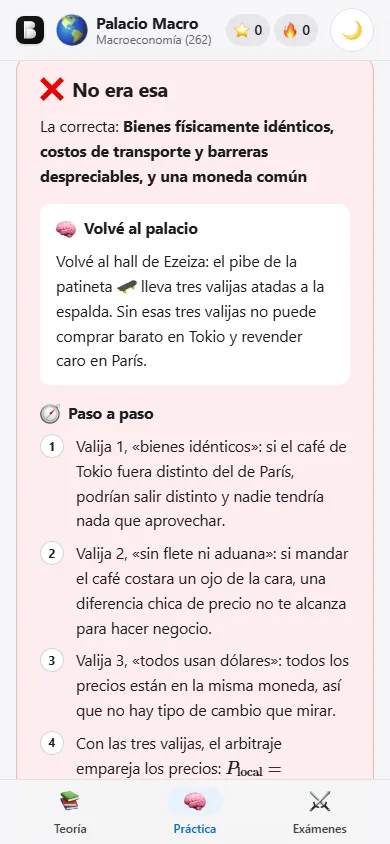
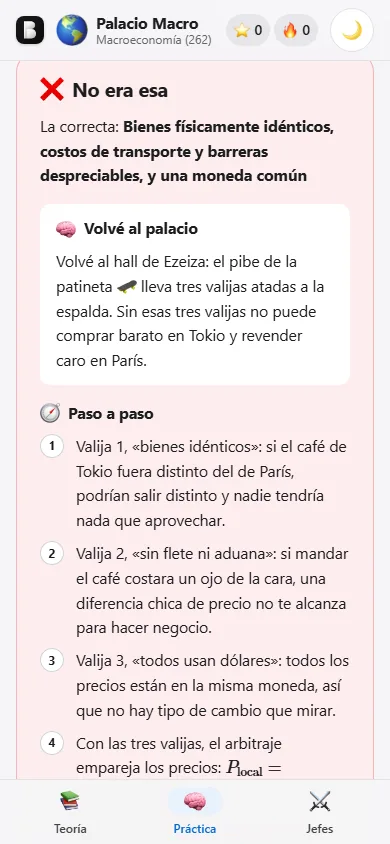
Pestaña Jefes, sitio de la materia, ícono animado y link a GitHub
- La pestaña «Exámenes Viejos» pasa a «Jefes (Estilo parcial)», con ruta #/jefes
  (los links #/examenes siguen andando) y capturas del README nuevas.
- Botón «Sitio de la materia» al lado del título de Teoría.
- El ícono del creador anima como el CTA de LinkedIn del pie.
- La tarjeta de recomendación del menú lleva a LinkedIn y resalta las frases clave.
- Logos del pie a 12 px de la curva, con el texto centrado de 320 a 1440 px.
- Link chiquito al repositorio de GitHub en el pie.

diff --git a/index.html b/index.html
@@ -128,6 +128,16 @@ img.emo { display: inline-block; width: 1.25em; height: 1.25em; vertical-align: 
 /* En oscuro el ícono (negro) se perdía contra el header: un borde claro y fino lo recorta */
 @media (prefers-color-scheme: dark) { :root:not([data-theme="light"]) .creator-btn:not([aria-expanded="true"]) { box-shadow: 0 0 0 1px rgba(255, 255, 255, .28); } }
 :root[data-theme="dark"] .creator-btn:not([aria-expanded="true"]) { box-shadow: 0 0 0 1px rgba(255, 255, 255, .28); }
+/* El ícono avisa que es un botón: el mismo brillo inclinado y halo cada 4 s que el CTA de LinkedIn del pie.
+   Arranca después de la intro, se pausa con el menú abierto y nunca corre con "reducir movimiento". Solo transform y opacity. */
+.creator-shine { position: absolute; inset: 0; z-index: 1; border-radius: inherit; overflow: hidden; pointer-events: none; }
+.creator-shine::before { content: ""; position: absolute; top: 0; bottom: 0; left: 0; width: 50%; background: linear-gradient(90deg, transparent, rgba(255, 255, 255, .55), transparent); transform: translateX(-150%) skewX(-12deg); }
+.creator-btn::after { content: ""; position: absolute; inset: -1px; border-radius: 9px; border: 2px solid var(--accent-btn); opacity: 0; pointer-events: none; }
+@media (prefers-reduced-motion: no-preference) {
+  .creator-btn:not([aria-expanded="true"]) .creator-shine::before { animation: cta-brillo 4s ease-in-out 1.4s infinite; }
+  .creator-btn:not([aria-expanded="true"])::after { animation: creator-halo 4s ease-out 1.4s infinite; }
+  @keyframes creator-halo { from { opacity: .7; transform: scale(1); } 40%, to { opacity: 0; transform: scale(1.6); } }
+}
 .brand img.emo { width: 32px; height: 32px; vertical-align: middle; flex: none; }
 .brand-txt { display: flex; flex-direction: column; min-width: 0; line-height: 1.2; }
 .brand-name { font: 700 16px/1.2 var(--font-d); letter-spacing: -.015em; white-space: nowrap; }
@@ -164,6 +174,7 @@ img.emo { display: inline-block; width: 1.25em; height: 1.25em; vertical-align: 
 @media (hover: hover) and (pointer: fine) { .reco-go:hover { filter: brightness(1.08); } .reco-x:hover { background: var(--fill); color: var(--ink); } }
 :root[data-reco="off"] .reco { display: none; }
 @media (max-width: 559px) { .reco-long { display: none; } .reco-short { display: inline; } .reco-row { gap: var(--s2); } .reco-go { padding: 0 var(--s3); } }
+@media (max-width: 359px) { .reco-logo { display: none; } }   /* a 320 px el texto quedaba en 3 líneas; el botón ya dice LinkedIn */
 
 .tabbar { display: none; }
 @media (max-width: 719px) {
@@ -233,6 +244,13 @@ mjx-container.mjx-wide { display: block; overflow-x: auto; overflow-y: hidden; p
 
 /* ============ TEORÍA ============ */
 .hero { margin-bottom: var(--s6); }
+/* Título de Teoría con un botón discreto al lado (el sitio de la materia): en celular baja debajo del título. */
+.hero-row { display: flex; flex-wrap: wrap; align-items: center; gap: var(--s2) var(--s4); }
+.site-link { position: relative; display: inline-flex; align-items: center; gap: var(--s2); min-height: 36px; padding: 0 var(--s3) 0 var(--s4); border-radius: var(--rp); background: transparent; color: var(--ink-2); box-shadow: inset 0 0 0 1px var(--line-2); font-size: 14px; font-weight: 600; letter-spacing: -.005em; text-decoration: none; white-space: nowrap; transition: background-color var(--dur) var(--ease), color var(--dur) var(--ease); }
+.site-link::before { content: ""; position: absolute; inset: -4px; }   /* zona táctil de 44 px */
+.site-link svg { flex: none; width: 12px; height: 12px; color: var(--muted); transition: transform var(--dur) var(--ease), color var(--dur) var(--ease); }
+@media (hover: hover) and (pointer: fine) { .site-link:hover { background: var(--fill); color: var(--ink); } .site-link:hover svg { color: var(--ink); transform: translate(1px, -1px); } }
+.site-link:active { background: var(--fill); }
 .path { list-style: none; margin: var(--s5) 0 0; padding: 0; display: grid; grid-template-columns: repeat(3, minmax(0, 1fr)); gap: var(--s3); }
 .path li > a, .path li > div { height: 100%; display: grid; grid-template-columns: auto minmax(0, 1fr); column-gap: var(--s3); row-gap: 0; align-items: center; padding: var(--s3) var(--s4); background: var(--surface); border-radius: var(--r2); box-shadow: var(--sh-1); color: var(--ink); text-decoration: none; transition: transform var(--dur) var(--ease), box-shadow var(--dur) var(--ease); }
 .path-n { grid-row: span 2; display: grid; place-items: center; width: 32px; height: 32px; border-radius: var(--rp); background: var(--fill); font-weight: 700; font-size: 14px; }
@@ -516,16 +534,16 @@ h1[tabindex="-1"]:focus, h2[tabindex="-1"]:focus, h3[tabindex="-1"]:focus { outl
 .cr-sub { margin-top: var(--s1); color: var(--muted); max-width: 52ch; }
 .cr-thanks { margin-top: var(--s3); color: var(--muted); max-width: 52ch; font-size: 14px; line-height: 1.5; text-align: center; text-wrap: balance; }
 .cr-actions { display: flex; flex-wrap: wrap; justify-content: center; gap: var(--s3); width: 100%; margin-top: var(--s4); }
-.cr-actions > .pill-app { flex: 0 1 300px; min-width: 0; }
+.cr-actions > .pill-app { flex: 0 1 330px; min-width: 0; }   /* 330: con el logo a 12 px de la curva, «Conectá conmigo en LinkedIn» (16 px) necesita ~323 px para quedar centrado */
 @media (max-width: 559px) { .cr-actions > .pill-app { flex: 1 1 100%; } }
-.pill-app { display: inline-flex; align-items: center; min-height: 44px; max-width: 100%; padding: 0 5px; border-radius: var(--rp); background: var(--fill); color: var(--ink); text-decoration: none; font-weight: 600; font-size: 14px; letter-spacing: -.005em; }
+.pill-app { display: inline-flex; align-items: center; min-height: 44px; max-width: 100%; padding: 0 12px; border-radius: var(--rp); background: var(--fill); color: var(--ink); text-decoration: none; font-weight: 600; font-size: 14px; letter-spacing: -.005em; }
 .pill-txt { flex: 1 1 auto; text-align: center; white-space: nowrap; padding: 0 var(--s3); }
 .pill-gap { width: 34px; flex: 0 1 34px; min-width: 0; }
 /* Logo PNG de LinkedIn entero y tal cual (regla de Matías: nada blanco, ni círculo ni borde): sobre el azul del botón
    se separa solo con una sombra oscura suave. El PNG ya trae sus esquinas redondeadas. */
 .pill-logo { flex: none; width: 34px; height: 34px; object-fit: contain; filter: drop-shadow(0 1px 2px rgba(0, 0, 0, .45)); }
 /* Botón de mail: secundario y tranquilo, sin animación, del mismo tamaño que el de LinkedIn */
-.pill-mail { min-height: 48px; padding: 0 7px; border: 0; font: inherit; font-weight: 600; font-size: 16px; letter-spacing: -.01em; cursor: pointer; background: var(--fill); color: var(--ink); transition: background-color var(--dur) var(--ease), box-shadow var(--dur) var(--ease); }
+.pill-mail { min-height: 48px; padding: 0 12px; border: 0; font: inherit; font-weight: 600; font-size: 16px; letter-spacing: -.01em; cursor: pointer; background: var(--fill); color: var(--ink); transition: background-color var(--dur) var(--ease), box-shadow var(--dur) var(--ease); }
 .pill-ico { flex: none; display: grid; place-items: center; width: 34px; height: 34px; }
 .pill-ico img.emo { width: 26px; height: 26px; vertical-align: middle; }
 .pill-mail[aria-expanded="true"] { box-shadow: inset 0 0 0 2px var(--accent-btn); }
@@ -535,7 +553,7 @@ h1[tabindex="-1"]:focus, h2[tabindex="-1"]:focus, h3[tabindex="-1"]:focus { outl
 /* CTA de LinkedIn con el lenguaje "Propuesta" de Bellido: relleno de acción, brillo inclinado y halo cada 4 s,
    solo mientras está en pantalla (.is-live) y nunca con "reducir movimiento". Solo transform y opacity. */
 .pill-app.cta-in {
-  --cta: #0A66C2; position: relative; isolation: isolate; min-height: 48px; padding: 0 7px; background: var(--cta); color: #FFFFFF;
+  --cta: #0A66C2; position: relative; isolation: isolate; min-height: 48px; padding: 0 12px; background: var(--cta); color: #FFFFFF;
   box-shadow: inset 0 0 0 1px rgba(255, 255, 255, .26), 0 8px 24px -8px color-mix(in srgb, var(--cta) 85%, transparent);
   font-size: 16px; transition: transform var(--dur) var(--ease), box-shadow var(--dur) var(--ease), filter var(--dur) var(--ease);
 }
@@ -553,6 +571,14 @@ h1[tabindex="-1"]:focus, h2[tabindex="-1"]:focus, h3[tabindex="-1"]:focus { outl
   @keyframes cta-brillo-una { from { transform: translateX(-150%) skewX(-12deg); } to { transform: translateX(250%) skewX(-12deg); } }
   @keyframes cta-halo { from { opacity: .6; transform: scale(1); } 40%, to { opacity: 0; transform: scale(1.3); } }
 }
+/* Celulares angostos: con el logo corrido 12 px de la curva, el texto del botón necesita lugar. Se gana ancho achicando el margen
+   de la tarjeta y un punto de letra, para que el texto siga centrado y entero dentro del botón (medido de 320 a 1440 px). */
+@media (max-width: 419px) {
+  .credits { padding: var(--s4); }
+  .pill-app.cta-in, .pill-mail { font-size: 15px; }
+  .pill-txt { padding: 0 var(--s2); }
+}
+@media (max-width: 359px) { .pill-app.cta-in, .pill-mail { font-size: 14px; } }
 
 /* Panel del creador (popover nativo: Esc y tocar afuera lo cierran). Una acción rellena, la otra clara. */
 .creator-menu { position: fixed; inset: auto; top: var(--pop-top, 64px); bottom: var(--pop-bottom, auto); left: var(--pop-left, 16px); margin: 0; width: min(calc(100vw - 32px), 380px); max-height: calc(100vh - 32px); max-height: calc(100dvh - 32px); overflow-y: auto; padding: var(--s2); background: var(--surface); color: var(--ink); border: 1px solid var(--line); border-radius: var(--r2); box-shadow: var(--sh-2); text-align: left; }
@@ -561,6 +587,9 @@ h1[tabindex="-1"]:focus, h2[tabindex="-1"]:focus, h3[tabindex="-1"]:focus { outl
 .cm-sub { margin: 0 var(--s2) var(--s3); font-size: 14px; color: var(--ink-2); }
 .cm-note { margin: var(--s2) 0 0; padding: var(--s3); border-radius: var(--r1); background: var(--surface-2); box-shadow: inset 0 0 0 1px var(--line); font-size: 13px; line-height: 1.5; color: var(--ink-2); }
 .nb { white-space: nowrap; }
+/* Toda la tarjeta lleva a LinkedIn, pero se ve igual que un texto: sin subrayado, flecha ni cambio al pasar el mouse. */
+a.cm-note { display: block; color: var(--ink-2); text-decoration: none; }
+.cm-hl { color: var(--accent); font-weight: 600; }   /* frases clave del pedido, en el azul de acción de la página (AA: 5,1:1 claro, 5,8:1 oscuro) */
 .cm-note strong { display: block; margin-bottom: var(--s1); font-size: 14px; color: var(--ink); }
 .cm-list { list-style: none; margin: 0; padding: 0; display: grid; grid-template-columns: minmax(0, 1fr); gap: var(--s2); }
 .accion { position: relative; isolation: isolate; display: grid; grid-template-columns: 40px minmax(0, 1fr) 16px; align-items: center; gap: var(--s3); min-height: 64px; padding: var(--s3); border-radius: var(--r1); background: var(--surface); color: var(--ink); text-decoration: none; box-shadow: inset 0 0 0 1px var(--line); transition: transform var(--dur) var(--ease), box-shadow var(--dur) var(--ease), background-color var(--dur); }
@@ -602,6 +631,14 @@ h1[tabindex="-1"]:focus, h2[tabindex="-1"]:focus, h3[tabindex="-1"]:focus { outl
 .legal { margin-top: var(--s5) !important; padding-top: var(--s4); border-top: 1px solid var(--line); color: var(--muted); font-size: 12px; line-height: 1.5; letter-spacing: 0; }
 .foot-info .legal p { margin: var(--s2) auto 0; max-width: 72ch; text-wrap: pretty; }
 .foot-info .legal p:first-child { margin-top: 0; }
+/* Acceso al repo de GitHub: chiquito, en la línea del ©, con el logo PNG actual (en oscuro se invierte: el gato es negro). */
+.foot-info .legal .legal-c { display: flex; flex-wrap: wrap; justify-content: center; align-items: center; gap: var(--s1) var(--s3); }
+.gh-link { position: relative; display: inline-flex; align-items: center; gap: var(--s1); color: var(--muted); text-decoration: none; white-space: nowrap; }
+.gh-link::before { content: ""; position: absolute; inset: -13px -6px; }   /* zona táctil de 44 px sin agrandar el link */
+.gh-link img { width: 14px; height: 14px; }
+@media (hover: hover) and (pointer: fine) { .gh-link:hover { color: var(--ink); text-decoration: underline; text-underline-offset: 2px; } }
+@media (prefers-color-scheme: dark) { :root:not([data-theme="light"]) .gh-link img { filter: invert(1); } }
+:root[data-theme="dark"] .gh-link img { filter: invert(1); }
 
 /* Pie en escritorio (desde 760 px): más ancho, alineado a la izquierda y en bloques, para que no quede
    un racimo chico y centrado como en el celular. Todo sigue un mismo eje: el borde izquierdo. */
@@ -626,7 +663,7 @@ h1[tabindex="-1"]:focus, h2[tabindex="-1"]:focus, h3[tabindex="-1"]:focus { outl
   .foot-info > .mj-note, .foot-info > .legal { grid-column: 1 / -1; }
   .legal { display: grid; grid-template-columns: minmax(0, 1.5fr) minmax(0, 1fr); gap: var(--s3) var(--s7); align-items: start; }
   .foot-info .legal p { margin: 0; max-width: none; }
-  .foot-info .legal .legal-c { grid-column: 1 / -1; padding-top: var(--s3); border-top: 1px solid var(--line); }
+  .foot-info .legal .legal-c { grid-column: 1 / -1; padding-top: var(--s3); border-top: 1px solid var(--line); justify-content: space-between; }
   .foot-priv .btn-del { margin-top: var(--s4); }
 }
 
@@ -669,7 +706,7 @@ dialog p { margin-top: var(--s2); color: var(--ink-2); }
 <header class="top">
   <div class="top-row">
     <div class="brand-wrap">
-      <button class="creator-btn" id="creatorBtn" type="button" popovertarget="creatorMenu" aria-haspopup="dialog" aria-expanded="false" aria-label="Sobre el creador: portfolio y LinkedIn" title="Sobre el creador: portfolio, LinkedIn y recomendación"><img src="logos/bellido.png" alt="" width="96" height="96"></button>
+      <button class="creator-btn" id="creatorBtn" type="button" popovertarget="creatorMenu" aria-haspopup="dialog" aria-expanded="false" aria-label="Sobre el creador: portfolio y LinkedIn" title="Sobre el creador: portfolio, LinkedIn y recomendación"><img src="logos/bellido.png" alt="" width="96" height="96"><span class="creator-shine" aria-hidden="true"></span></button>
       <a class="brand" href="#/teoria"><img class="emo" src="emojis/globe-americas.webp" alt="" width="160" height="160" data-emoji="globe-americas"><span class="brand-txt"><span class="brand-name">Palacio Macro</span><span class="brand-sub">Macroeconomía (262)</span></span></a>
     </div>
     <div class="stats">
@@ -682,7 +719,7 @@ dialog p { margin-top: var(--s2); color: var(--ink-2); }
     <div class="seg">
       <a href="#/teoria" data-tab="teoria"><img class="emo" src="emojis/books.webp" alt="" width="160" height="160" data-emoji="books"><span>Teoría <span class="seg-sub">(Resúmenes)</span></span></a>
       <a href="#/practica" data-tab="practica"><img class="emo" src="emojis/brain.webp" alt="" width="160" height="160" data-emoji="brain"><span>Práctica <span class="seg-sub">(Palacio Mental)</span></span></a>
-      <a href="#/examenes" data-tab="examenes"><img class="emo" src="emojis/crossed-swords.webp" alt="" width="160" height="160" data-emoji="crossed-swords"><span>Exámenes Viejos</span></a>
+      <a href="#/jefes" data-tab="jefes"><img class="emo" src="emojis/crossed-swords.webp" alt="" width="160" height="160" data-emoji="crossed-swords"><span>Jefes <span class="seg-sub">(Estilo parcial)</span></span></a>
     </div>
   </nav>
 </header>
@@ -728,8 +765,8 @@ dialog p { margin-top: var(--s2); color: var(--ink-2); }
     </div>
     <div class="legal">
       <p>El sello de la Universidad de Buenos Aires (dominio público) y el escudo de la Facultad de Ciencias Económicas identifican la institución donde se cursa la materia. Este no es un sitio oficial de la UBA ni de la cátedra.</p>
-      <p>Emojis designed by Apple. Used for educational purposes.<br>LinkedIn, Gmail y Outlook son marcas de sus respectivos dueños.</p>
-      <p class="legal-c">© 2026 Matias Rodrigo Bellido. Todos los derechos reservados.</p>
+      <p>Emojis designed by Apple. Used for educational purposes.<br>LinkedIn, Gmail, Outlook y GitHub son marcas de sus respectivos dueños.</p>
+      <p class="legal-c"><span>© 2026 Matias Rodrigo Bellido. Todos los derechos reservados.</span><a class="gh-link" href="https://github.com/matiasbellidor/3PMAC_2C2026" target="_blank" rel="noopener noreferrer"><img src="logos/github.png" alt="" width="128" height="128" loading="lazy" decoding="async">Código en GitHub<span class="sr-only"> (se abre en otra pestaña)</span></a></p>
     </div>
   </div>
 </footer>
@@ -737,7 +774,7 @@ dialog p { margin-top: var(--s2); color: var(--ink-2); }
 <nav class="tabbar" aria-label="Secciones">
   <a href="#/teoria" data-tab="teoria"><span class="tb-ico"><img class="emo" src="emojis/books.webp" alt="" width="160" height="160" data-emoji="books"></span><span>Teoría<span class="sr-only"> (Resúmenes)</span></span></a>
   <a href="#/practica" data-tab="practica"><span class="tb-ico"><img class="emo" src="emojis/brain.webp" alt="" width="160" height="160" data-emoji="brain"></span><span>Práctica<span class="sr-only"> (Palacio Mental)</span></span></a>
-  <a href="#/examenes" data-tab="examenes"><span class="tb-ico"><img class="emo" src="emojis/crossed-swords.webp" alt="" width="160" height="160" data-emoji="crossed-swords"></span><span>Exámenes<span class="sr-only"> Viejos</span></span></a>
+  <a href="#/jefes" data-tab="jefes"><span class="tb-ico"><img class="emo" src="emojis/crossed-swords.webp" alt="" width="160" height="160" data-emoji="crossed-swords"></span><span>Jefes<span class="sr-only"> (Estilo parcial)</span></span></a>
 </nav>
 
 <div class="creator-menu" id="creatorMenu" popover role="dialog" aria-labelledby="creatorTitle">
@@ -747,7 +784,7 @@ dialog p { margin-top: var(--s2); color: var(--ink-2); }
     <li style="--i:0"><a class="accion accion--principal" href="https://matiasbellido.vercel.app/" target="_blank" rel="noopener noreferrer"><span class="accion__brillo" aria-hidden="true"></span><span class="accion__icono"><img src="logos/bellido.png" alt="" width="96" height="96"></span><span class="accion__texto"><strong>Ver el portfolio del creador</strong><span>Proyectos, experiencia y contacto. Se abre en otra pestaña.</span></span><span class="accion__flecha" aria-hidden="true">→</span></a></li>
     <li style="--i:1"><a class="accion" href="https://www.linkedin.com/in/matiasbellido/" target="_blank" rel="noopener noreferrer"><span class="accion__icono accion__icono--logo"><img src="logos/linkedin.png?v=2" alt="" width="128" height="128"></span><span class="accion__texto"><strong>Ir al LinkedIn del creador</strong><span>Perfil profesional y recomendaciones. Se abre en otra pestaña.</span></span><span class="accion__flecha" aria-hidden="true">→</span></a></li>
   </ul>
-  <p class="cm-note"><strong>¿Te sirvió? Dejame una recomendación</strong>Una forma de agradecérmelo es recomendarme en LinkedIn: conectate conmigo y, en mi perfil, tocá «Más» → «Recomendar». Contá que estudiaste en la misma institución (<span class="nb">FCE-UBA</span>), qué hiciste con este material y por qué te ayudó.</p>
+  <a class="cm-note" href="https://www.linkedin.com/in/matiasbellido/" target="_blank" rel="noopener noreferrer"><strong>¿Te sirvió? Dejame una recomendación</strong>Una forma de agradecérmelo es <span class="cm-hl">darme una recomendación en LinkedIn</span>: conectate conmigo y, en mi perfil, tocá <span class="cm-hl">«Más» → «Recomendar»</span>. Contá que estudiaste en la misma institución (<span class="nb">FCE-UBA</span>), qué hiciste con este material y por qué te ayudó.<span class="sr-only"> (se abre en otra pestaña)</span></a>
 </div>
 
 <!-- Consultas por mail: la persona elige Gmail u Outlook y se abre un mail nuevo con la dirección y el asunto puestos (sin servidor). -->
@@ -1073,7 +1110,7 @@ const THEORY = [
     ],
     /* Este resumen no tiene habitación de práctica: su versión palacio es un rincón extra del aeropuerto. */
     palaceName: "Rincón extra: el Free Shop",
-    palaceNote: R`Este rincón no tiene preguntas propias: lo practicás con el tercer jefe, en Exámenes Viejos.`,
+    palaceNote: R`Este rincón no tiene preguntas propias: lo practicás con el tercer jefe, en la pestaña Jefes.`,
     palace: {
       llegada: R`Saliendo de Migraciones, antes de llegar a la sala de embarque, pasás sí o sí por el Free Shop. Entrás y te parás en el medio del pasillo de perfumes, mirando hacia las cajas.`,
       stations: [
@@ -2961,7 +2998,7 @@ const PRACTICE = {
   ]
 };
 
-/* ---------------- TAB 3: EXÁMENES VIEJOS (BOSS FIGHTS) ----------------
+/* ---------------- TAB 3: JEFES (ESTILO PARCIAL) ----------------
    Cada jefe: opción múltiple, 4 opciones y 1 correcta ("correct" = índice).
    "theory" lista los resúmenes que se recomiendan si perdés. */
 const EXAMS = {
@@ -3632,12 +3669,13 @@ window.MACRO_DATA = { sources: SOURCES, theory: THEORY, practice: PRACTICE, exam
     var list = cardsOf(src);
     var h = '<section class="hero">'
       + '<p class="kicker">Teoría · Macroeconomía (262) · Cátedra Rodriguez Repeti</p>'
-      + '<h1 id="h">Resúmenes de la bibliografía</h1>'
+      + '<div class="hero-row"><h1 id="h">Resúmenes de la bibliografía</h1>'
+      + '<a class="site-link" href="https://sites.google.com/view/macroeconomics262" target="_blank" rel="noopener noreferrer">Sitio de la materia<svg viewBox="0 0 12 12" fill="none" stroke="currentColor" stroke-width="1.6" stroke-linecap="round" stroke-linejoin="round" aria-hidden="true"><path d="M4 2.5h5.5V8M9.2 2.8L2.5 9.5"/></svg><span class="sr-only"> (se abre en otra pestaña)</span></a></div>'
       + '<p class="lead">Un resumen por tema de cada PDF de la materia, con las ecuaciones clave y su versión palacio al lado. Elegí el PDF y leé en orden.</p>'
       + '<ol class="path" aria-label="Cómo estudiar con esta página">'
       + '<li class="path-on"><div><span class="path-n">1</span><span class="path-t">📚 Leé los resúmenes</span><span class="path-s">Estás acá</span></div></li>'
       + '<li><a href="#/practica"><span class="path-n">2</span><span class="path-t">🧠 Recorré el palacio</span><span class="path-s">' + ROOMS.length + ' habitaciones</span></a></li>'
-      + '<li><a href="#/examenes"><span class="path-n">3</span><span class="path-t">⚔ Enfrentá a los jefes</span><span class="path-s">' + BOSSES.length + ' jefes</span></a></li>'
+      + '<li><a href="#/jefes"><span class="path-n">3</span><span class="path-t">⚔ Enfrentá a los jefes</span><span class="path-s">' + BOSSES.length + ' jefes</span></a></li>'
       + '</ol>'
       + '<nav aria-label="PDF de la bibliografía"><ul class="pdfs">' + SOURCES.map(function (s) {
           var n = cardsOf(s).length;
@@ -3749,7 +3787,7 @@ window.MACRO_DATA = { sources: SOURCES, theory: THEORY, practice: PRACTICE, exam
       + '<p class="hearts"><span aria-hidden="true">' + hearts + '</span><span class="sr-only">Vida del jefe: ' + run.hp + ' de ' + run.total + '. Te quedan ' + run.hearts + ' de ' + run.maxHearts + ' corazones.</span></p></div>';
   }
   function bossTop() {
-    return '<div class="q-top"><a class="back" href="#/examenes">← Salir de la pelea</a></div>'
+    return '<div class="q-top"><a class="back" href="#/jefes">← Salir de la pelea</a></div>'
       + '<section class="card boss-bar" id="bossBar" aria-label="Estado de la pelea">' + bossBarInner() + '</section>';
   }
   function renderQuestion() {
@@ -3895,18 +3933,18 @@ window.MACRO_DATA = { sources: SOURCES, theory: THEORY, practice: PRACTICE, exam
       + '<h1 id="h">¡Habitación ' + (i + 1) + ' superada!</h1>'
       + '<p class="lead">Acertaste ' + run.firstTry + ' de ' + run.total + ' a la primera.' + (firstTime ? ' Sumaste 30 XP extra por superarla.' : '') + '</p>'
       + hookHtml('Repetí la frase:', r.palace.hook)
-      + '<div class="cta-row">' + (next ? '<a class="btn" href="#/practica/' + next.id + '">▶ Siguiente: Habitación ' + (i + 2) + '</a>' : '<a class="btn" href="#/examenes">⚔ Enfrentá a los jefes</a>')
+      + '<div class="cta-row">' + (next ? '<a class="btn" href="#/practica/' + next.id + '">▶ Siguiente: Habitación ' + (i + 2) + '</a>' : '<a class="btn" href="#/jefes">⚔ Enfrentá a los jefes</a>')
       + '<a class="btn btn-2" href="#/practica">🧠 Volver al palacio</a></div></section>';
     paint(h, '#h');
     say('Habitación superada.');
     confetti();
   }
 
-  /* ================= TAB 3: EXÁMENES VIEJOS (JEFES) ================= */
+  /* ================= TAB 3: JEFES (ESTILO PARCIAL) ================= */
   function renderBosses(msg) {
-    setTitle('Exámenes Viejos');
+    setTitle('Jefes');
     var h = '<section class="hero">'
-      + '<p class="kicker">Exámenes Viejos · Boss Fights</p>'
+      + '<p class="kicker">Jefes · Estilo parcial</p>'
       + '<h1 id="h">Jefes del capítulo 17</h1>'
       + '<p class="lead">Preguntas de opción múltiple estilo parcial. Cada acierto le saca vida al jefe; cada error te cuesta un corazón y la pregunta vuelve. Con 3 errores perdés la pelea.</p>'
       + (msg ? '<p class="notice" role="status">⚠ <span>' + msg + '</span></p>' : '')
@@ -3919,7 +3957,7 @@ window.MACRO_DATA = { sources: SOURCES, theory: THEORY, practice: PRACTICE, exam
             + '<p class="small">' + b.intro + '</p>'
             + '<p class="boss-meta">' + b.questions.length + ' preguntas · ' + (b.hearts || 3) + ' ❤</p>'
             + (rec && rec.won ? '<p class="boss-rec">🏆 Derrotado (mejor: ' + rec.best + ' de ' + (b.hearts || 3) + ' corazones)</p>' : '')
-            + '<div class="cta"><a class="btn" href="#/examenes/' + b.id + '">' + (rec && rec.won ? '🔁 Revancha' : '⚔ Pelear') + '</a></div></article>';
+            + '<div class="cta"><a class="btn" href="#/jefes/' + b.id + '">' + (rec && rec.won ? '🔁 Revancha' : '⚔ Pelear') + '</a></div></article>';
         }).join('') + '</div>';
     paint(h, '#h');
   }
@@ -3943,14 +3981,14 @@ window.MACRO_DATA = { sources: SOURCES, theory: THEORY, practice: PRACTICE, exam
       h += '<p class="big" aria-hidden="true">🏆</p><h1 id="h">¡Derrotaste a ' + b.name + '!</h1>'
         + '<p class="lead">Te quedaron ' + run.hearts + ' de ' + run.maxHearts + ' corazones.' + (first ? ' Sumaste 50 XP extra.' : '') + '</p>'
         + miss
-        + '<div class="cta-row">' + (next ? '<a class="btn" href="#/examenes/' + next.id + '">⚔ Siguiente jefe: ' + next.name + '</a>' : '<a class="btn" href="#/practica">🧠 Repasar el palacio</a>')
-        + '<a class="btn btn-2" href="#/examenes">Volver a los jefes</a></div>';
+        + '<div class="cta-row">' + (next ? '<a class="btn" href="#/jefes/' + next.id + '">⚔ Siguiente jefe: ' + next.name + '</a>' : '<a class="btn" href="#/practica">🧠 Repasar el palacio</a>')
+        + '<a class="btn btn-2" href="#/jefes">Volver a los jefes</a></div>';
     } else {
       h += '<p class="big" aria-hidden="true">💔</p><h1 id="h">' + b.name + ' ganó esta vez</h1>'
         + '<p class="lead">Le sacaste ' + (run.total - run.hp) + ' de ' + run.total + ' de vida. Repasá y volvé: las preguntas cambian de orden.</p>'
         + miss
         + '<div class="review">' + (b.theory || []).map(function (tid) { var t = byId(THEORY, tid); return t ? '<a class="chip" href="#/teoria/' + t.id + '">📚 ' + t.short + '</a>' : ''; }).join('') + '</div>'
-        + '<div class="cta-row"><button class="btn" type="button" data-go="#/examenes/' + b.id + '">🔁 Revancha</button><a class="btn btn-2" href="#/examenes">Volver a los jefes</a></div>';
+        + '<div class="cta-row"><button class="btn" type="button" data-go="#/jefes/' + b.id + '">🔁 Revancha</button><a class="btn btn-2" href="#/jefes">Volver a los jefes</a></div>';
     }
     h += '</section>';
     paint(h, '#h');
@@ -3999,15 +4037,20 @@ window.MACRO_DATA = { sources: SOURCES, theory: THEORY, practice: PRACTICE, exam
   /* ---------- Rutas por hash (funcionan igual en GitHub Pages) ---------- */
   function route() {
     var parts = location.hash.replace(/^#\/?/, '').split('/').filter(Boolean);
+    /* Links guardados con la ruta anterior (#/examenes…): siguen andando y la barra de direcciones pasa a #/jefes. */
+    if (parts[0] === 'examenes') {
+      parts[0] = 'jefes';
+      try { history.replaceState(null, '', '#/' + parts.join('/')); } catch (e) {}
+    }
     var tab = parts[0];
-    if (tab !== 'practica' && tab !== 'examenes') tab = 'teoria';
+    if (tab !== 'practica' && tab !== 'jefes') tab = 'teoria';
     setTab(tab);
     app.classList.toggle('wide', tab === 'teoria');
     if (tab === 'practica') {
       if (!parts[1]) renderPalace();
       else if (parts[2] === 'jugar') startRoom(parts[1]);
       else renderRoom(parts[1]);
-    } else if (tab === 'examenes') {
+    } else if (tab === 'jefes') {
       if (!parts[1]) renderBosses();
       else startBoss(parts[1]);
     } else {

diff --git a/README.md b/README.md
@@ -31,7 +31,7 @@ Un **palacio de la memoria** armado sobre el aeropuerto de Ezeiza: hall, check-i
 
 Son cinco habitaciones con 22 preguntas sobre el capítulo 17 de Barro, de opción múltiple y con cuentas. Si acertás, avanzás. Si errás, ves la explicación paso a paso contada con la historia del palacio, y la pregunta vuelve al final. Cada habitación superada abre la siguiente.
 
-### ⚔ Exámenes Viejos (Boss Fights)
+### ⚔ Jefes (Estilo parcial)
 Tres jefes con 19 preguntas de opción múltiple estilo parcial. Cada acierto le saca vida al jefe y cada error te cuesta un corazón; con tres errores perdés la pelea. Al terminar, ves las preguntas que fallaste con su respuesta y los resúmenes para repasar.
 
 ![Explicación paso a paso con la historia del palacio, en el celular](capturas/palacio-celular.webp)
@@ -57,7 +57,7 @@ Es un sitio estático, así que también funciona en otros servicios de hosting 
 - Bibliografía: Barro, *Macroeconomics: A Modern Approach* (caps. 17 y 18); Blanchard, *Macroeconomía* (7.ª ed., caps. 17 a 20); Sachs y Larraín, *Macroeconomía en la economía global* (cap. 9); Mundell, «Capital Mobility and Stabilization Policy under Fixed and Flexible Exchange Rates» (1963); Fleming, «Domestic Financial Policies under Fixed and under Floating Exchange Rates» (1962), y Obstfeld y Rogoff, «The Mirage of Fixed Exchange Rates» (1995). Los PDF no están en el repositorio porque tienen derechos de autor.
 - Los resúmenes, las historias del palacio y las preguntas son material propio de estudio. Si algo no coincide con lo que da la cátedra, gana la cátedra.
 - Este no es un sitio oficial de la Universidad de Buenos Aires ni de la cátedra. El sello de la UBA (dominio público) y el escudo de la Facultad de Ciencias Económicas solo identifican la institución donde se cursa la materia.
-- Emojis designed by Apple. Used for educational purposes. LinkedIn, Gmail y Outlook son marcas de sus respectivos dueños.
+- Emojis designed by Apple. Used for educational purposes. LinkedIn, Gmail, Outlook y GitHub son marcas de sus respectivos dueños.
 
 ## Autor
 
